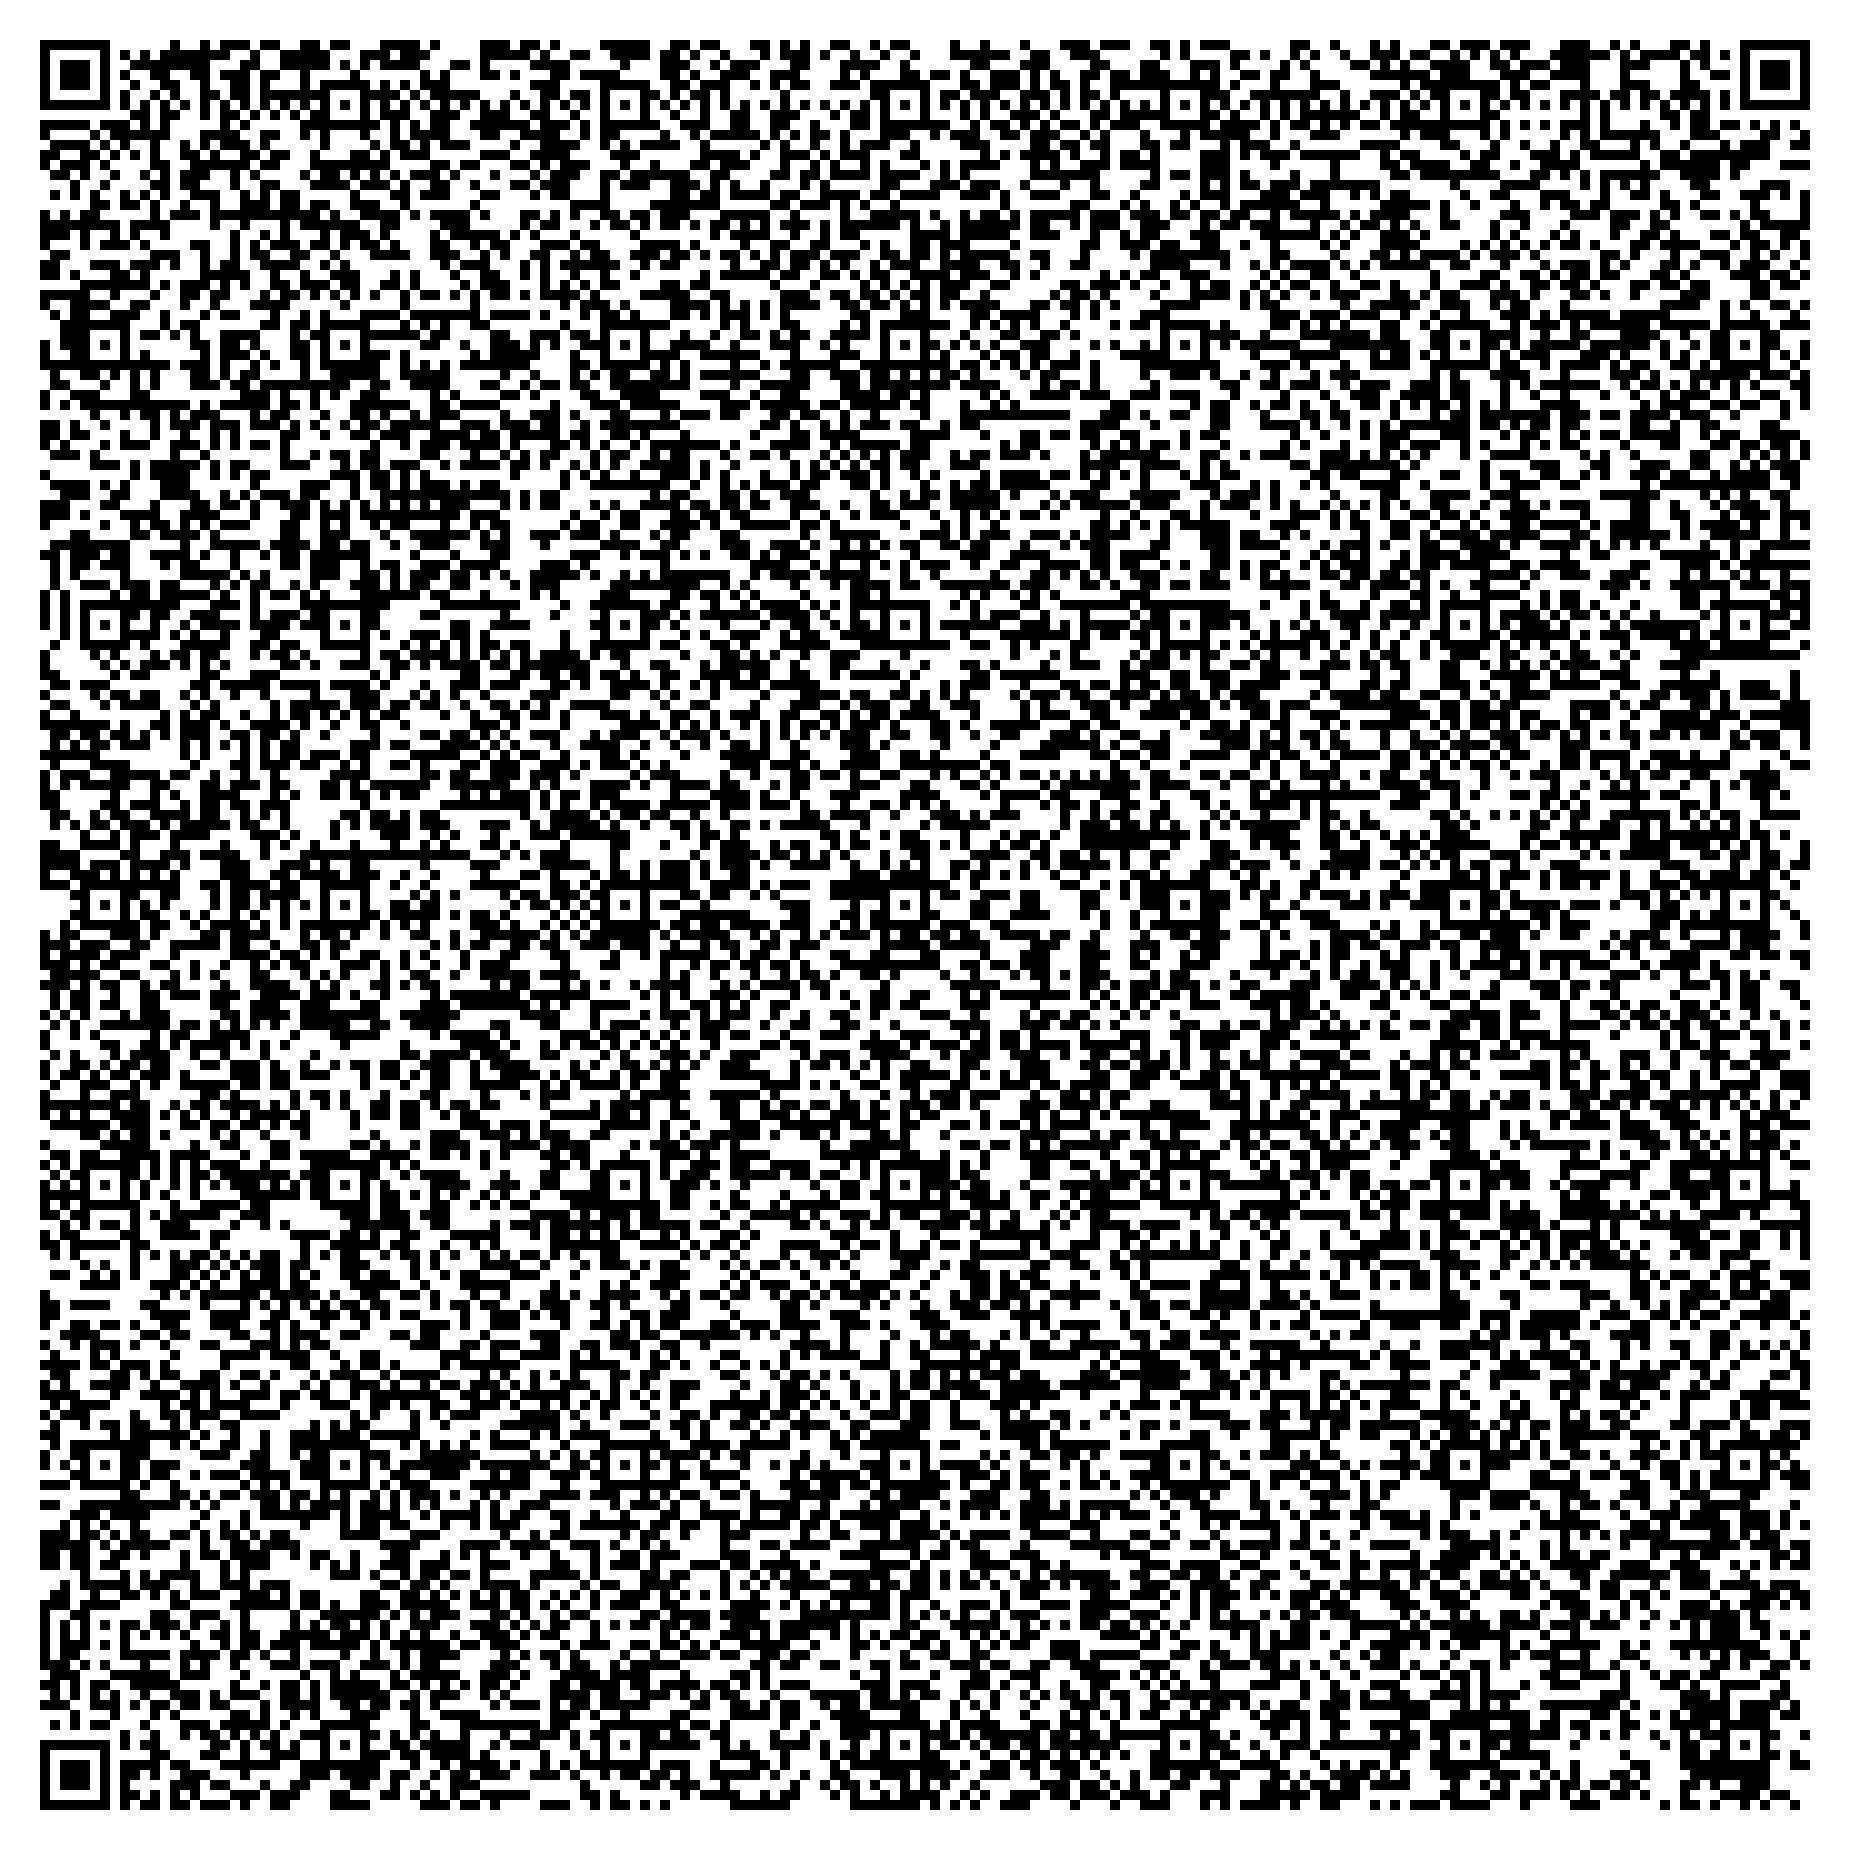
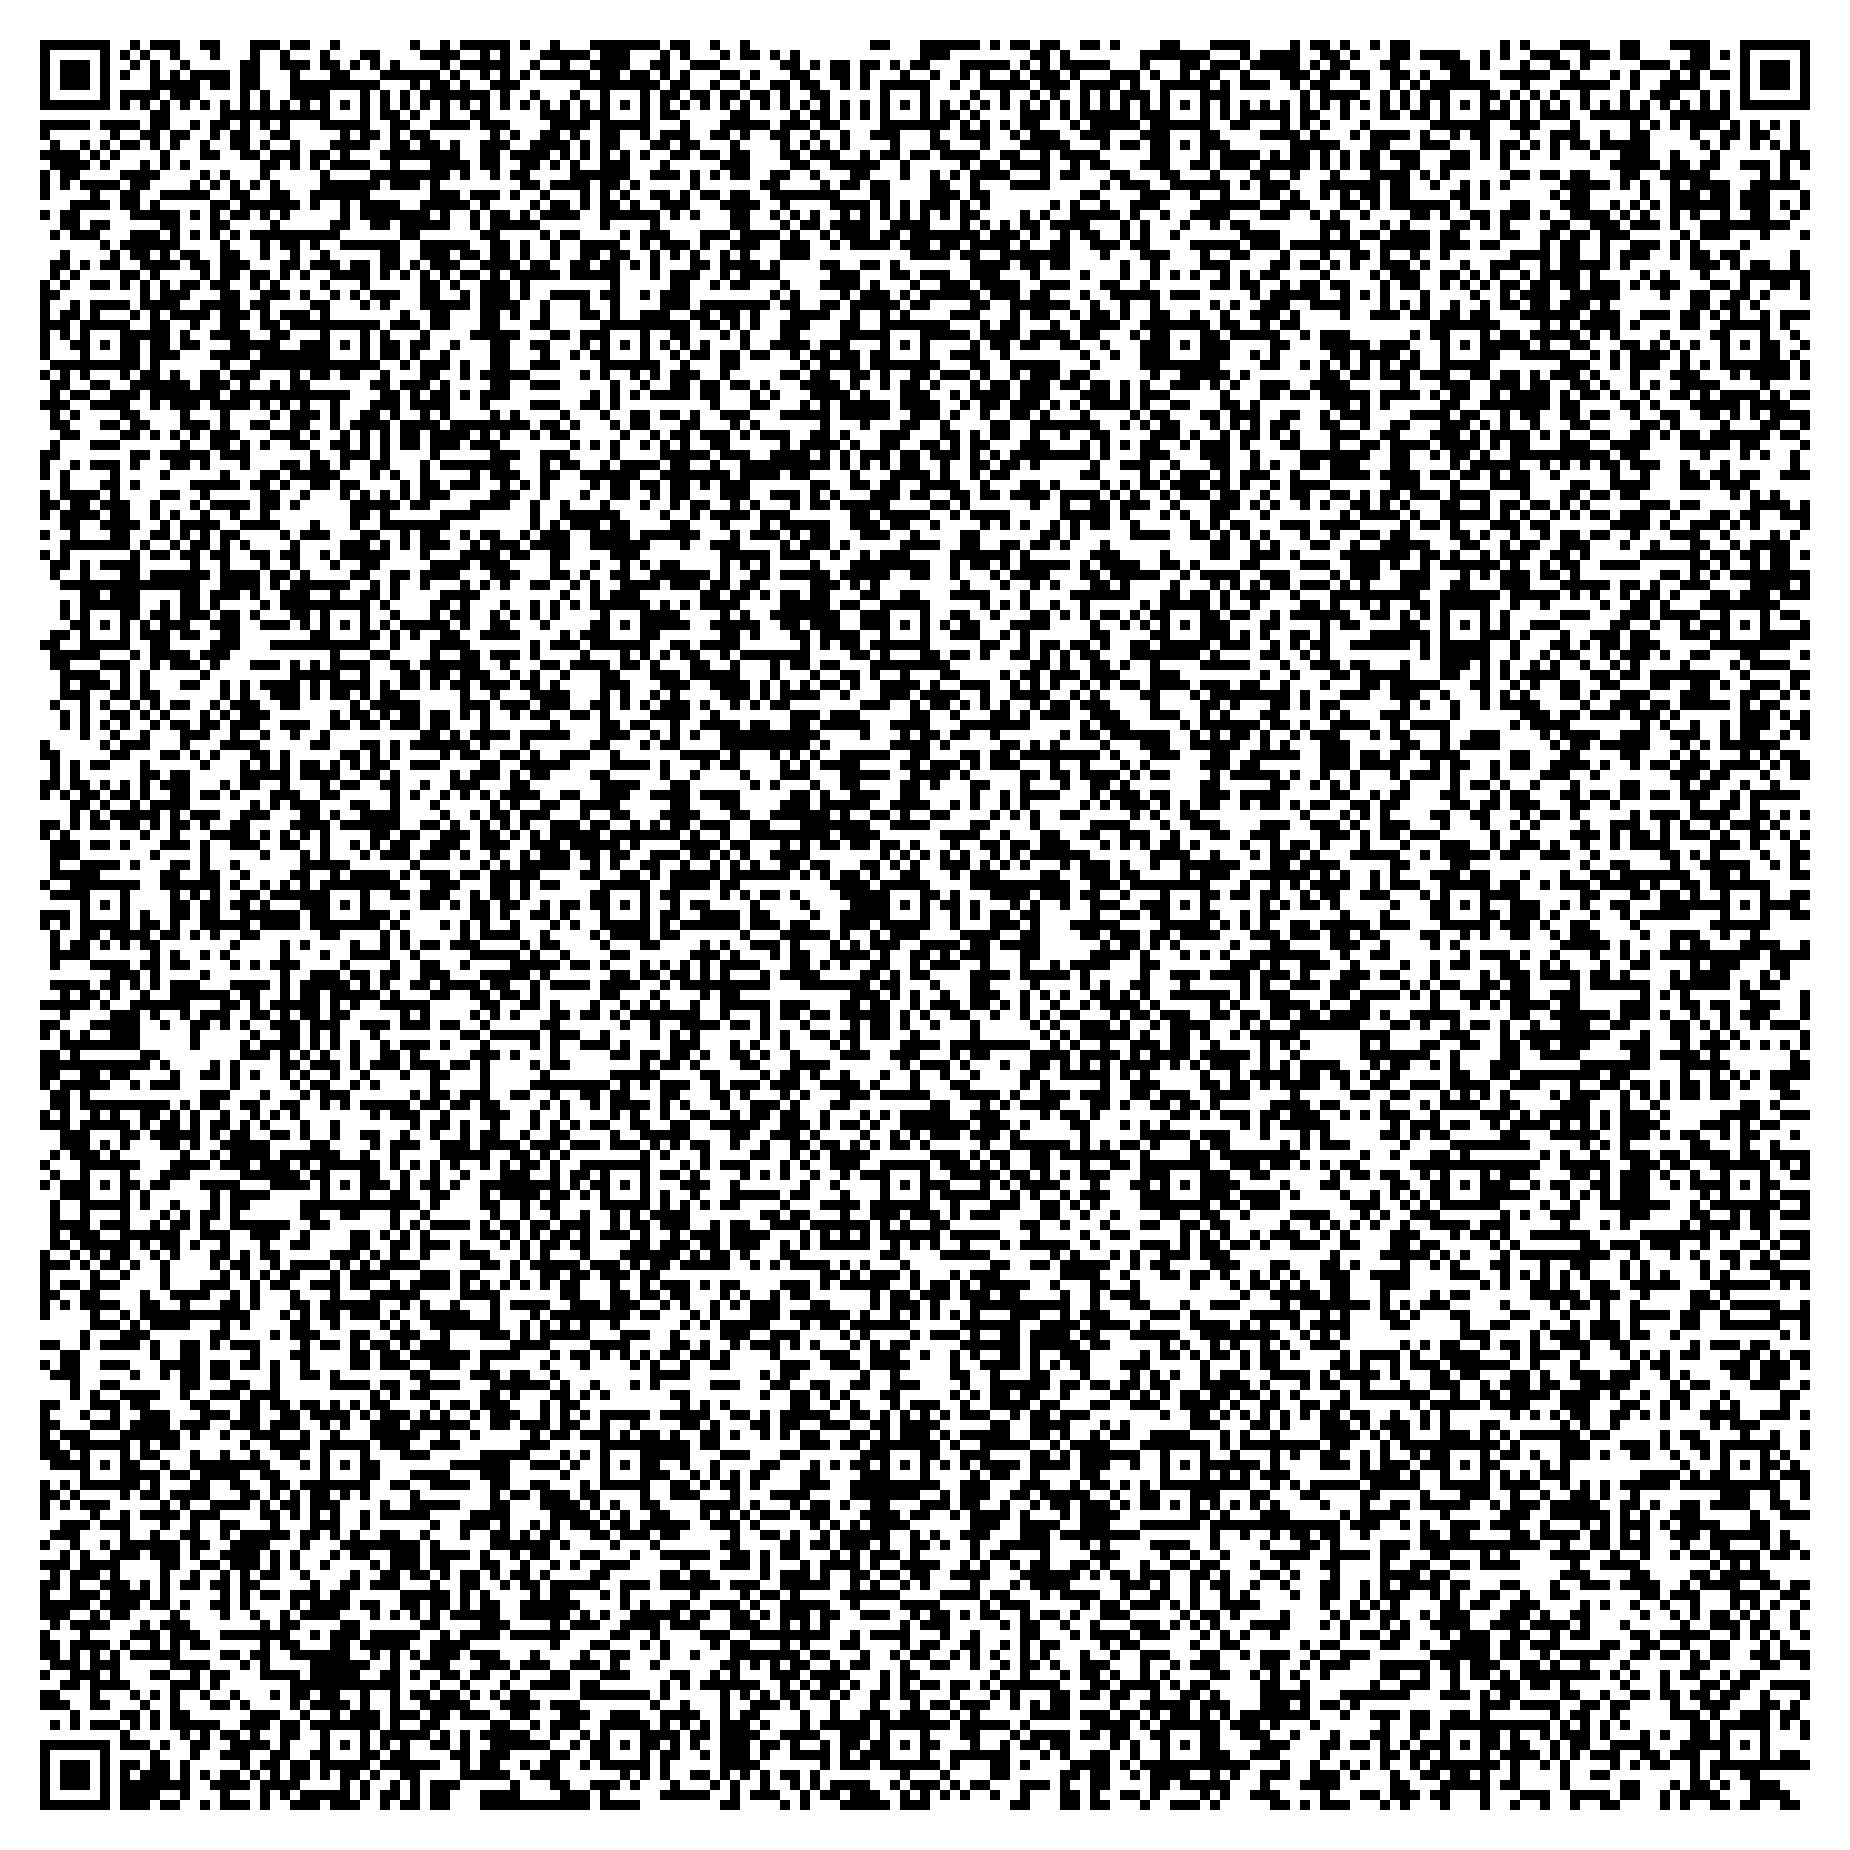
working!!!

diff --git a/QR_Generator/generator.py b/QR_Generator/generator.py
@@ -1,19 +1,19 @@
 import base64
 import os
+import random
 import qrcode
 
 zip_filename = "MandelbrotSet.zip"
 png_output_filename = "QR.png"
-exe_inside_zip = "MandelbrotSet.exe"  # Name deiner EXE in der ZIP
+exe_inside_zip = "MandelbrotSet.exe"
 
-# 1. Anleitung mit plattformübergreifenden Kommentar-Präfixen (#::)
+# 1. Plattformübergreifende Anleitung
 reader_anleitung = (
-    "#:: --- ANLEITUNG ---\n"
-    "#:: 1. Kopiere diesen gesamten Text.\n"
-    "#:: 2. Oeffne die Windows Eingabeaufforderung (cmd) oder die PowerShell.\n"
-    "#:: 3. Fuege den Text ein.\n"
-    "#:: Die Anwendung entpackt sich und schliesst dieses Fenster automatisch.\n"
-    "#:: -----------------\n"
+    "#:: --- Open on Windows PC ---\n"
+    "#:: 1. Copy whole text.\n"
+    "#:: 2. Paste into PowerShell.\n"
+    "#:: 3. Enjoy Fractals!\n"
+    "#:: ---------------\n"
 )
 
 if not os.path.exists(zip_filename):
@@ -25,27 +25,34 @@ else:
     with open(zip_filename, "rb") as f:
         zip_data = f.read()
 
-    b64_string = base64.b64encode(zip_data).decode('utf-8')
+    b64_zip = base64.b64encode(zip_data).decode('utf-8')
 
-    # 2. Die finale String-Zusammensetzung mit automatischem Enter + Exit
-    # Durch das '\n' am Ende der powershell-Zeile wird diese sofort getriggert.
-    # Danach wird 'exit\n' eingelesen, was das Terminal sofort schließt.
+    # Zufälliges Suffix für maximale Sicherheit vor Überschreiben
+    suffix = "105HDGDL69"
+    sandbox_name = f"M_{suffix}"
+
+    # 2. PURE POWERSHELL SYNTAX WITHOUT WRAPPERS
+    # Absolut stabil, keine verschachtelten Anführungszeichen, kein 'powershell -Command'
     final_command = (
         f"{reader_anleitung}"
-        f"powershell -Command \""
-        f"[IO.File]::WriteAllBytes('MandelbrotSet.zip',[Convert]::FromBase64String('{b64_string}')); "
-        f"Expand-Archive MandelbrotSet.zip . -Force; del MandelbrotSet.zip\"\n"
-        f"exit\n"
+        f"$d = Join-Path $env:temp '{sandbox_name}';\n"
+        f"New-Item -ItemType Directory -Path $d -Force | Out-Null;\n"
+        f"$z = Join-Path $d 'z.zip';\n"
+        f"[io.file]::WriteAllBytes($z, [Convert]::FromBase64String('{b64_zip}'));\n"
+        f"Expand-Archive $z $d -Force;\n"
+        f"Remove-Item $z -Force;\n"
+        f"cd $d;\n"
+        f"Start-Process '.\\{exe_inside_zip}';\n"
+        f"exit;\n"
+        f"#These are the last possible bytes that fit on the QR-Code. Have a good day!!!\n"
     )
 
     final_length = len(final_command)
     print(f"📏 Gesamtlaenge für den QR-Code: {final_length} Zeichen / Bytes")
 
-    # 3. QR-Code-Generierung als PNG (Version 40, Error Correction L für maximalen Speicher)
     if final_length <= 2953:
-        print(f"✅ Passt! Restlicher Puffer: {2953 - final_length} Zeichen.")
+        print(f"✅ Passt perfekt! Restlicher Puffer: {2953 - final_length} Zeichen.")
         
-        print("🎨 Generiere QR-Code-Bild...")
         qr = qrcode.QRCode(
             version=40,
             error_correction=qrcode.constants.ERROR_CORRECT_L,
@@ -60,4 +67,4 @@ else:
         
         print(f"💾 Erfolgreich! Der QR-Code wurde als '{png_output_filename}' gespeichert.")
     else:
-        print(f"❌ Zu groess für einen QR-Code! Limit ueberschritten um {final_length - 2953} Zeichen.")
+        print(f"❌ Zu gross um {final_length - 2953} Zeichen.")
